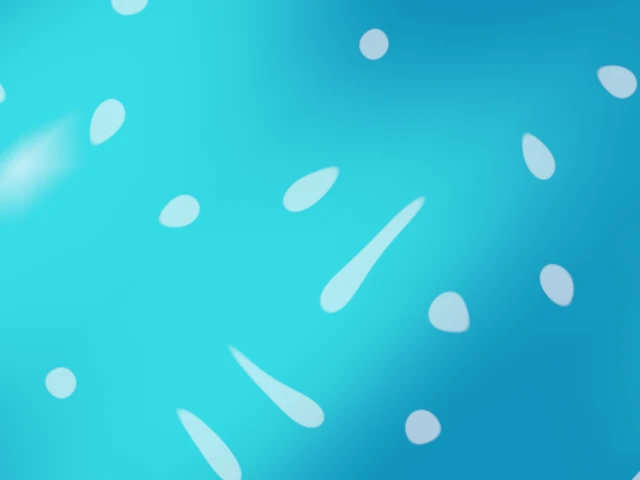
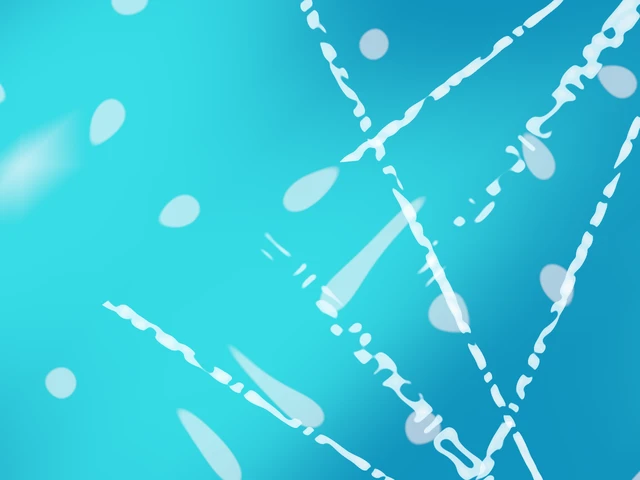
Run wake streaks across the tile water

diff --git a/style.css b/style.css
@@ -617,9 +617,9 @@ html[data-theme="dark"] .masthead-boat {
 }
 
 /* The bay its own title screen races across, straight down on the water from
-   38 units up and drawn by the game's own sea shader, so the wave bands, the
-   foam dashes and the crest caps are the game's. The title screen's own
-   vignette goes over it. */
+   38 units up. The wave bands, the foam dashes and the wake streaks left by
+   two boats that passed out of frame all come from the game's own shaders.
+   The title screen's own vignette goes over it. */
 .tile-bb {
   padding: 4%;
   --tile:
